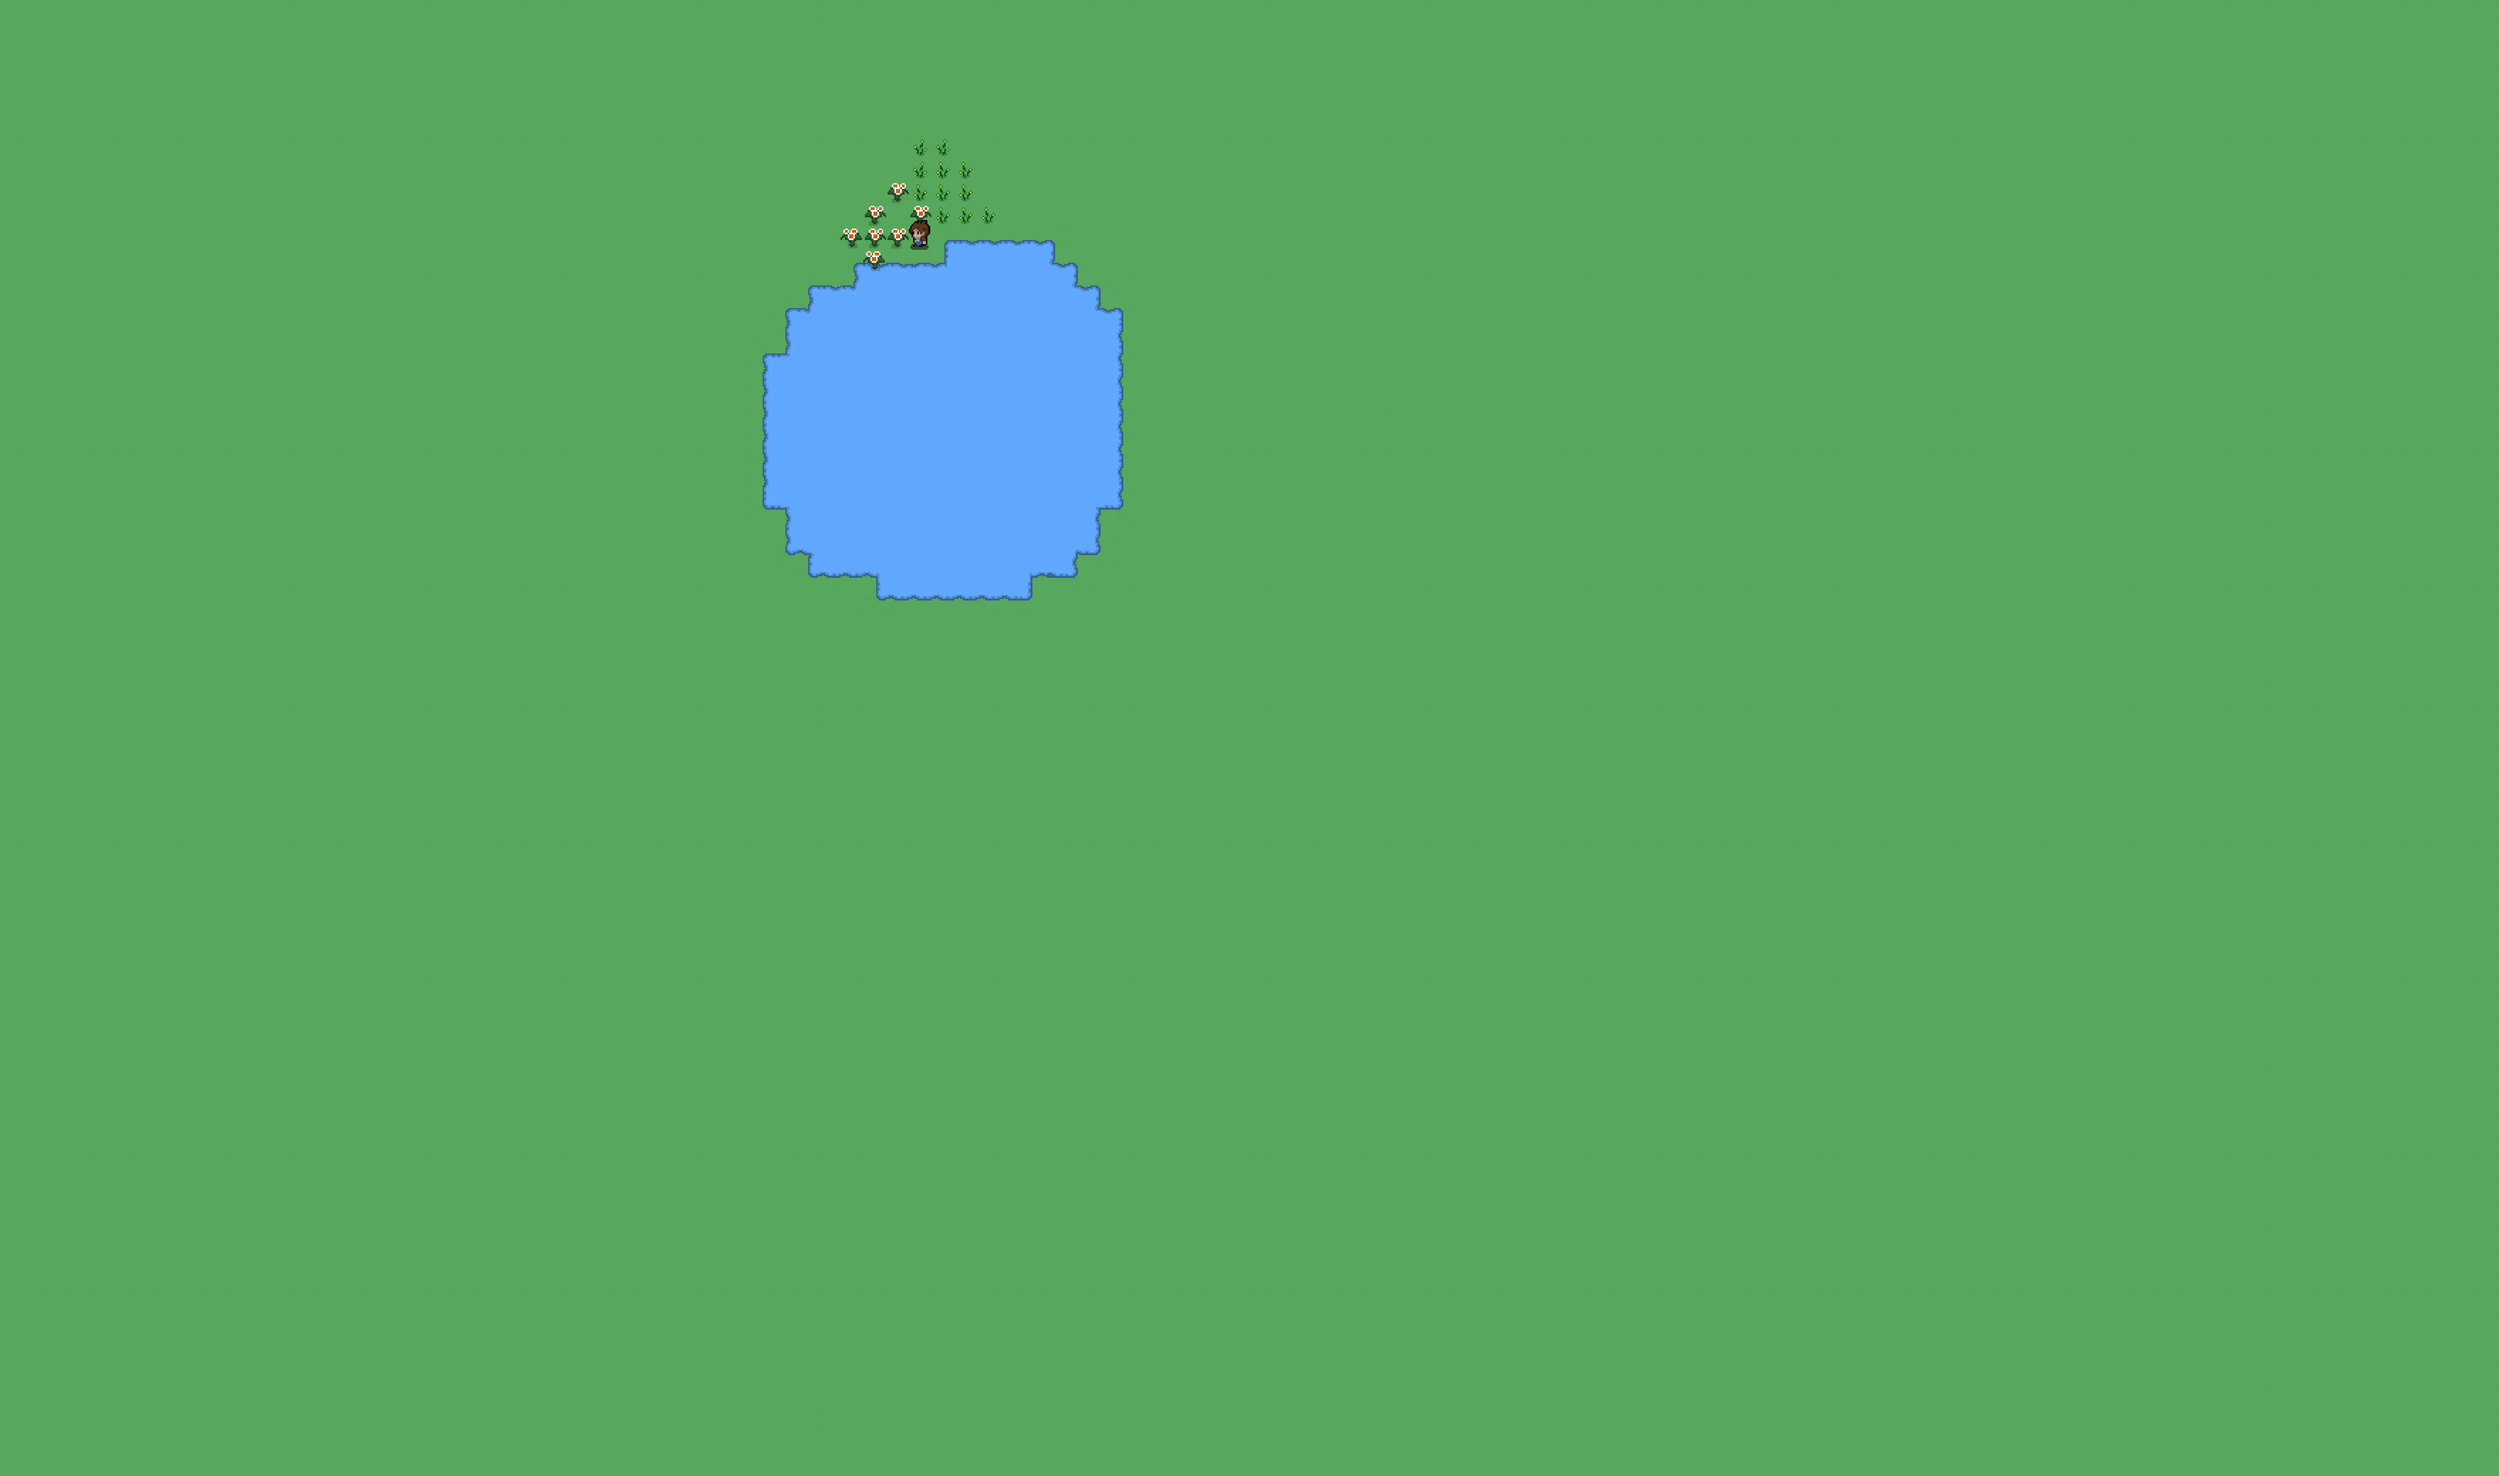
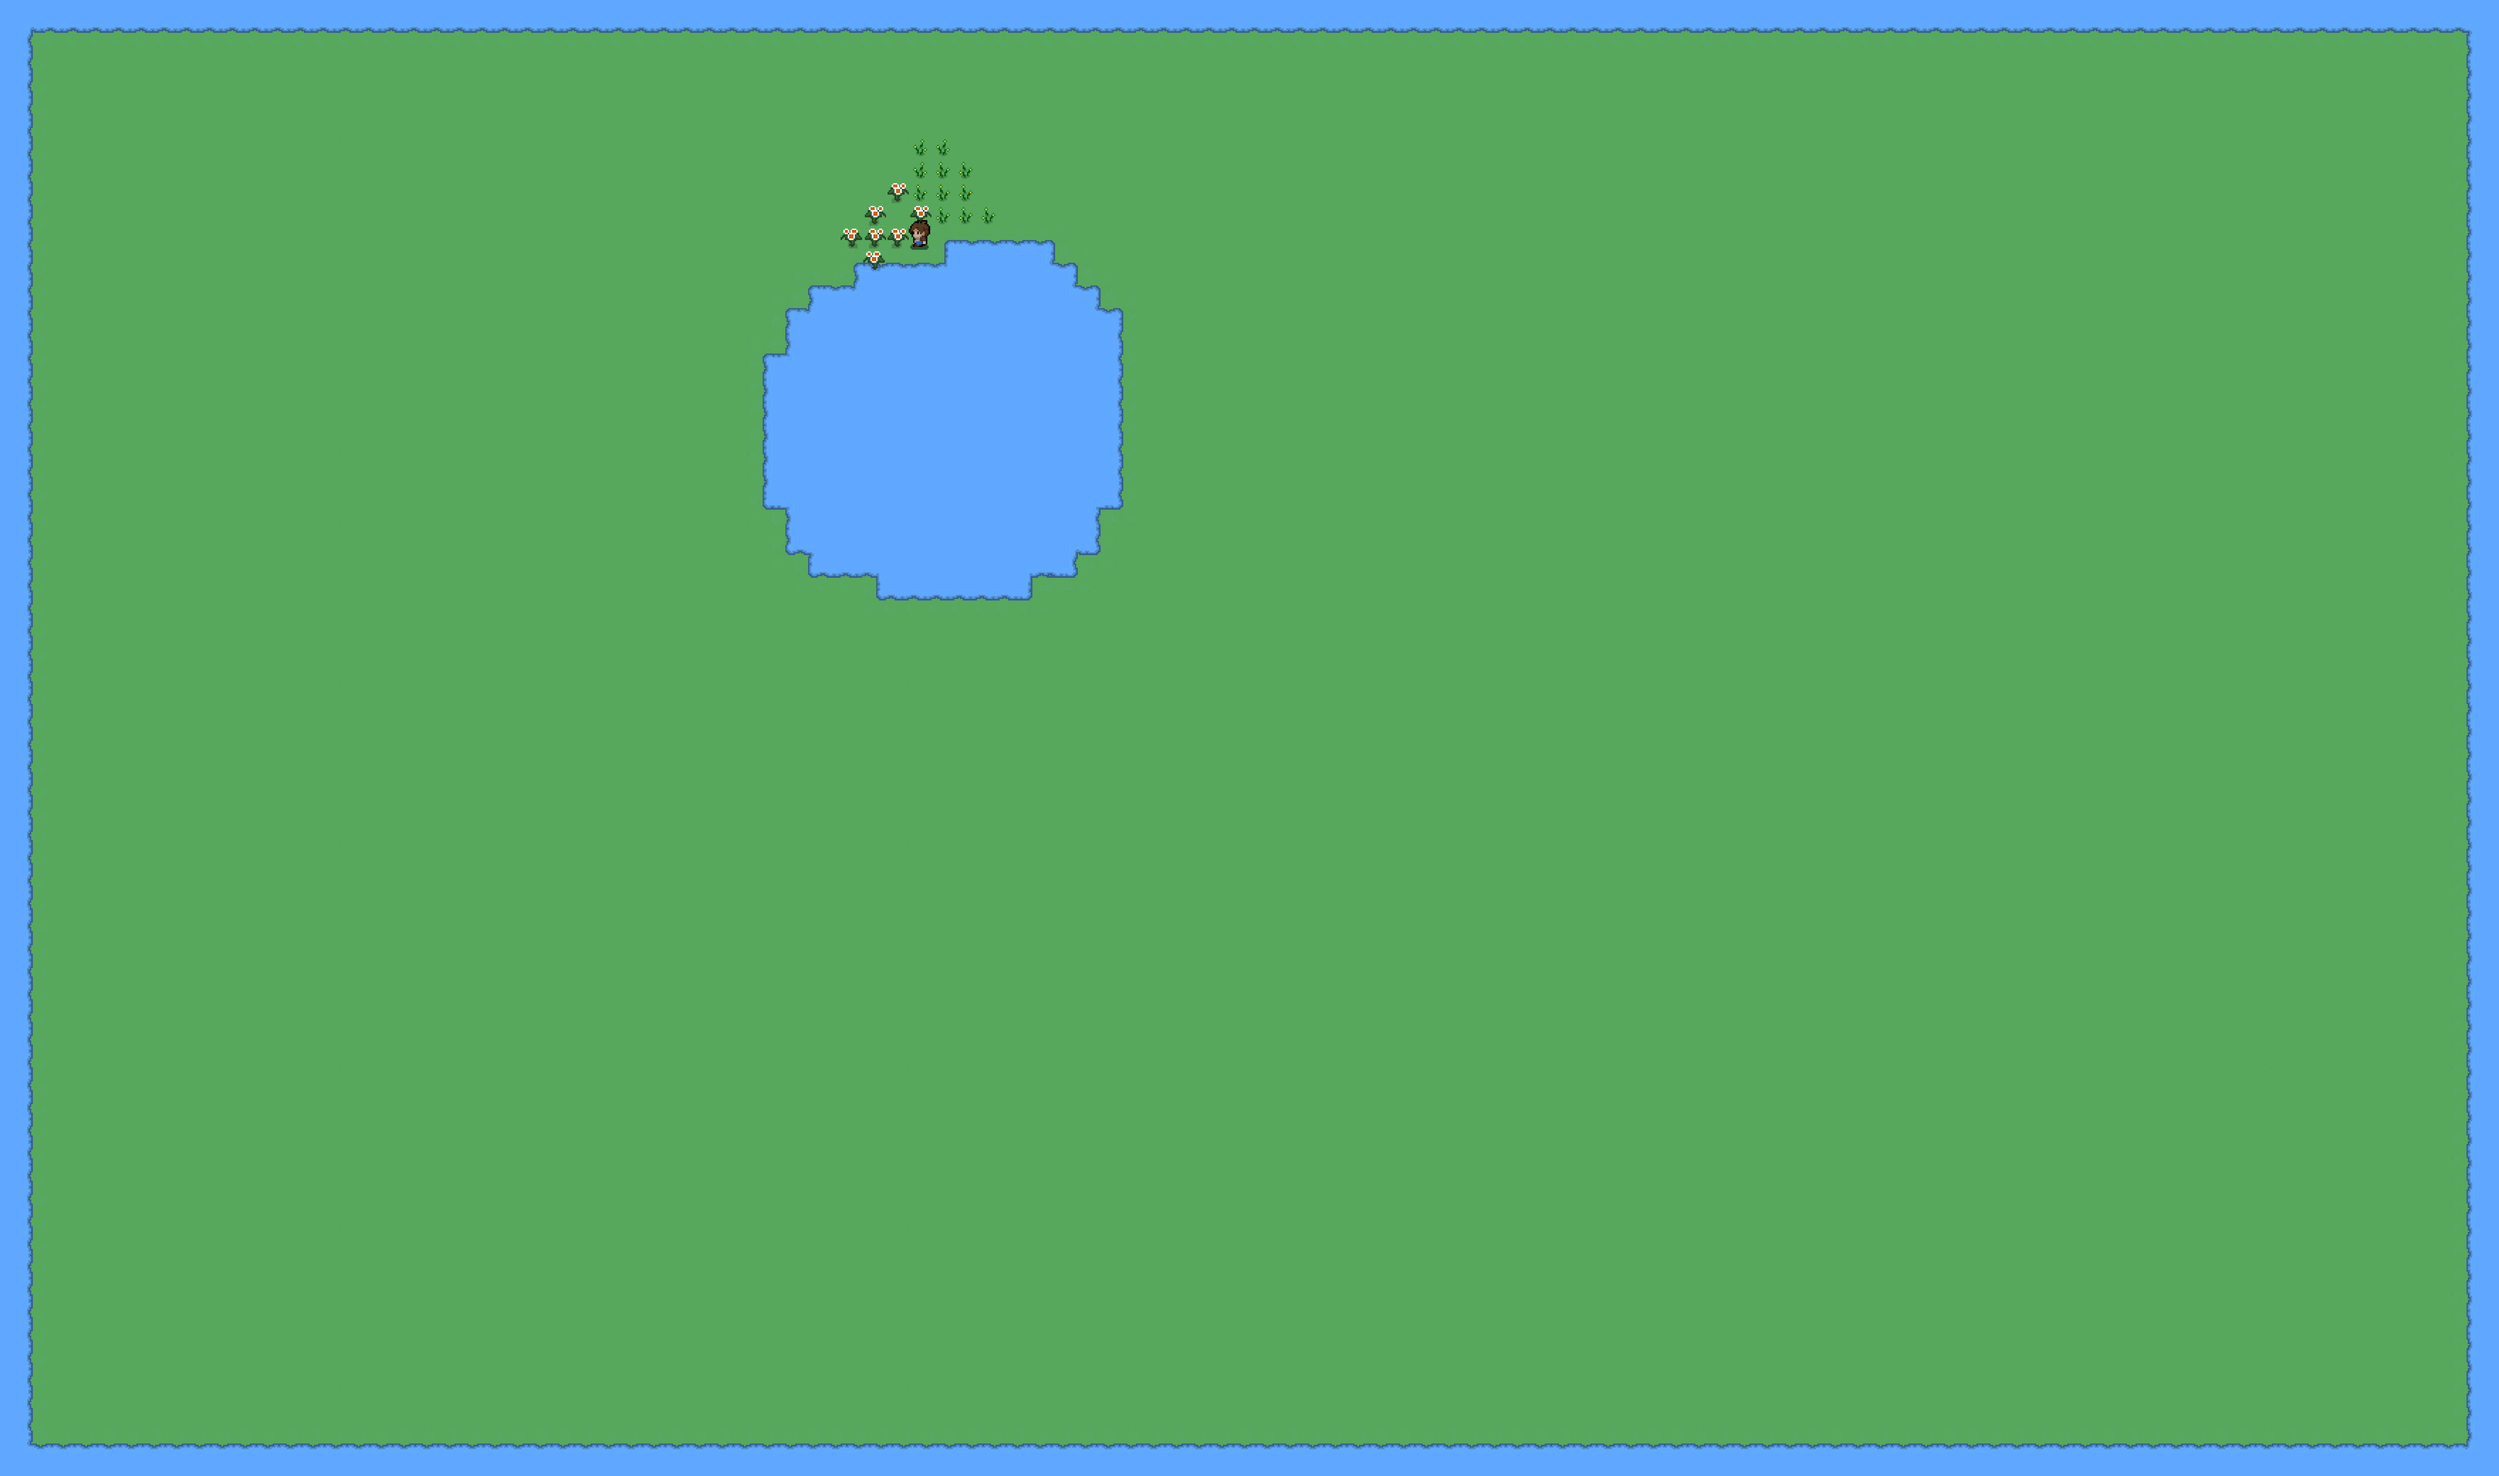
finished boundaries

Changed region(s): [[0.0, 0.0, 1.0, 1.0]]

diff --git a/ts/sprite.ts b/ts/sprite.ts
@@ -90,61 +90,109 @@ window.addEventListener("keyup", (e) => {
     }
 })
 
-function checkCollision(entity1: any, entity2: any) {
+function checkCollision(entity1: Player, entity2: Boundary, playerDirection: string) {
     // console.log(entity2.bondary.position.x, entity2.position.x);
+    if (playerDirection == 'd') {
+        return (
+            entity1.position.x + entity1.width + 3 >= entity2.position.x &&
+            entity1.position.x <= entity2.position.x + entity2.width &&
+            entity1.position.y <= entity2.position.y + entity2.height &&
+            entity1.position.y + entity2.height >= entity2.position.y
+        )
+    }
+    if (playerDirection == 'a') {
+        return (
+            entity1.position.x + entity1.width >= entity2.position.x &&
+            entity1.position.x - 3 <= entity2.position.x + entity2.width &&
+            entity1.position.y <= entity2.position.y + entity2.height &&
+            entity1.position.y + entity2.height >= entity2.position.y
+        )
+    }
+    if (playerDirection == 'w') {
+        return (
+            entity1.position.x + entity1.width >= entity2.position.x &&
+            entity1.position.x <= entity2.position.x + entity2.width &&
+            entity1.position.y - 3 <= entity2.position.y + entity2.height &&
+            entity1.position.y + entity2.height >= entity2.position.y
+        )
+    }
+    if (playerDirection == 's') {
+        return (
+            entity1.position.x + entity1.width >= entity2.position.x &&
+            entity1.position.x <= entity2.position.x + entity2.width &&
+            entity1.position.y <= entity2.position.y + entity2.height &&
+            entity1.position.y + entity2.height + 12 >= entity2.position.y
+        )
+    }
     
-    return (
-        entity1.position.x + entity1.width >= entity2.bondary.position.x &&
-        entity1.position.x <= entity2.bondary.position.x + entity2.width &&
-        entity1.position.y <= entity2.bondary.position.y + entity2.height &&
-        entity1.position.y + entity2.height >= entity2.bondary.position.y
-    )
 }
 
 function animate() {
+    moving = true;
     window.requestAnimationFrame(animate);
     if (dPressed && lastkey == 'd') {
         for (let i=0; i < boundaries.length; i++) {
-            console.log("oui");
+            if (checkCollision(player, boundaries[i], lastkey)) {
+                moving = false;
+            } 
         }
+    if (moving) 
+    movables.forEach(move => {
+        move.position.x -= 2;
+    });
+    player.imgSrc = "img/player_right.png"
 
-        movables.forEach(move => {
-            move.position.x -= 2;
-        });
-        player.imgSrc = "img/player_right.png"
     }
     else if (aPressed && lastkey == 'a') {
-        movables.forEach(move => {
-            move.position.x += 2;
-        });
-        player.imgSrc = "img/player_left.png"
+        for (let i=0; i < boundaries.length; i++) {
+            if (checkCollision(player, boundaries[i], lastkey)) {
+                moving = false;
+            } 
+        }
+    if (moving)
+    movables.forEach(move => {
+        move.position.x += 2;
+    });
+    player.imgSrc = "img/player_left.png"
+    
     }
     else if (wPressed && lastkey == 'w') {
-        movables.forEach(move => {
-            move.position.y += 2;
-        });
-        player.imgSrc = "img/player_up.png"
+        for (let i=0; i < boundaries.length; i++) {
+            if (checkCollision(player, boundaries[i], lastkey)) {
+                moving = false;
+            } 
+        }
+    if (moving)
+    movables.forEach(move => {
+        move.position.y += 2;
+    });
+    player.imgSrc = "img/player_up.png"
     }
     else if (sPressed && lastkey == 's')  {
-        movables.forEach(move => {
-            move.position.y -= 2;
-        });
-        player.imgSrc = "img/player_down.png"
+        for (let i=0; i < boundaries.length; i++) {
+            if (checkCollision(player, boundaries[i], lastkey)) {
+                moving = false;
+            } 
+        }
+    if (moving)
+    movables.forEach(move => {
+        move.position.y -= 2;
+    });
+    player.imgSrc = "img/player_down.png"
     }
 
     background.draw();
-    boundaries.forEach(boundary => {
-            // checkCollision(player, boundary);
-            boundary.draw();
-        });
-        player.draw();
-    }
+    // boundaries.forEach(boundary => {
+    //         // checkCollision(player, boundary);
+    //         // boundary.draw();
+    //     });
+    player.draw();
+}
     
-    const offset = {
-        x: -2300,
-        y: -300,
-    }
-    
+const offset = {
+    x: -2100,
+    y: -200,
+}
     
 let moving = true;
 const collisionsMap = [];

diff --git a/js/sprite.js b/js/sprite.js
@@ -77,52 +77,94 @@ window.addEventListener("keyup", (e) => {
         //     break
     }
 });
-function checkCollision(entity1, entity2) {
+function checkCollision(entity1, entity2, playerDirection) {
     // console.log(entity2.bondary.position.x, entity2.position.x);
-    return (entity1.position.x + entity1.width >= entity2.bondary.position.x &&
-        entity1.position.x <= entity2.bondary.position.x + entity2.width &&
-        entity1.position.y <= entity2.bondary.position.y + entity2.height &&
-        entity1.position.y + entity2.height >= entity2.bondary.position.y);
+    if (playerDirection == 'd') {
+        return (entity1.position.x + entity1.width + 3 >= entity2.position.x &&
+            entity1.position.x <= entity2.position.x + entity2.width &&
+            entity1.position.y <= entity2.position.y + entity2.height &&
+            entity1.position.y + entity2.height >= entity2.position.y);
+    }
+    if (playerDirection == 'a') {
+        return (entity1.position.x + entity1.width >= entity2.position.x &&
+            entity1.position.x - 3 <= entity2.position.x + entity2.width &&
+            entity1.position.y <= entity2.position.y + entity2.height &&
+            entity1.position.y + entity2.height >= entity2.position.y);
+    }
+    if (playerDirection == 'w') {
+        return (entity1.position.x + entity1.width >= entity2.position.x &&
+            entity1.position.x <= entity2.position.x + entity2.width &&
+            entity1.position.y - 3 <= entity2.position.y + entity2.height &&
+            entity1.position.y + entity2.height >= entity2.position.y);
+    }
+    if (playerDirection == 's') {
+        return (entity1.position.x + entity1.width >= entity2.position.x &&
+            entity1.position.x <= entity2.position.x + entity2.width &&
+            entity1.position.y <= entity2.position.y + entity2.height &&
+            entity1.position.y + entity2.height + 12 >= entity2.position.y);
+    }
 }
 function animate() {
+    moving = true;
     window.requestAnimationFrame(animate);
     if (dPressed && lastkey == 'd') {
         for (let i = 0; i < boundaries.length; i++) {
-            console.log("oui");
+            if (checkCollision(player, boundaries[i], lastkey)) {
+                moving = false;
+            }
         }
-        movables.forEach(move => {
-            move.position.x -= 2;
-        });
+        if (moving)
+            movables.forEach(move => {
+                move.position.x -= 2;
+            });
         player.imgSrc = "img/player_right.png";
     }
     else if (aPressed && lastkey == 'a') {
-        movables.forEach(move => {
-            move.position.x += 2;
-        });
+        for (let i = 0; i < boundaries.length; i++) {
+            if (checkCollision(player, boundaries[i], lastkey)) {
+                moving = false;
+            }
+        }
+        if (moving)
+            movables.forEach(move => {
+                move.position.x += 2;
+            });
         player.imgSrc = "img/player_left.png";
     }
     else if (wPressed && lastkey == 'w') {
-        movables.forEach(move => {
-            move.position.y += 2;
-        });
+        for (let i = 0; i < boundaries.length; i++) {
+            if (checkCollision(player, boundaries[i], lastkey)) {
+                moving = false;
+            }
+        }
+        if (moving)
+            movables.forEach(move => {
+                move.position.y += 2;
+            });
         player.imgSrc = "img/player_up.png";
     }
     else if (sPressed && lastkey == 's') {
-        movables.forEach(move => {
-            move.position.y -= 2;
-        });
+        for (let i = 0; i < boundaries.length; i++) {
+            if (checkCollision(player, boundaries[i], lastkey)) {
+                moving = false;
+            }
+        }
+        if (moving)
+            movables.forEach(move => {
+                move.position.y -= 2;
+            });
         player.imgSrc = "img/player_down.png";
     }
     background.draw();
-    boundaries.forEach(boundary => {
-        // checkCollision(player, boundary);
-        boundary.draw();
-    });
+    // boundaries.forEach(boundary => {
+    //         // checkCollision(player, boundary);
+    //         // boundary.draw();
+    //     });
     player.draw();
 }
 const offset = {
-    x: -2300,
-    y: -300,
+    x: -2100,
+    y: -200,
 };
 let moving = true;
 const collisionsMap = [];
